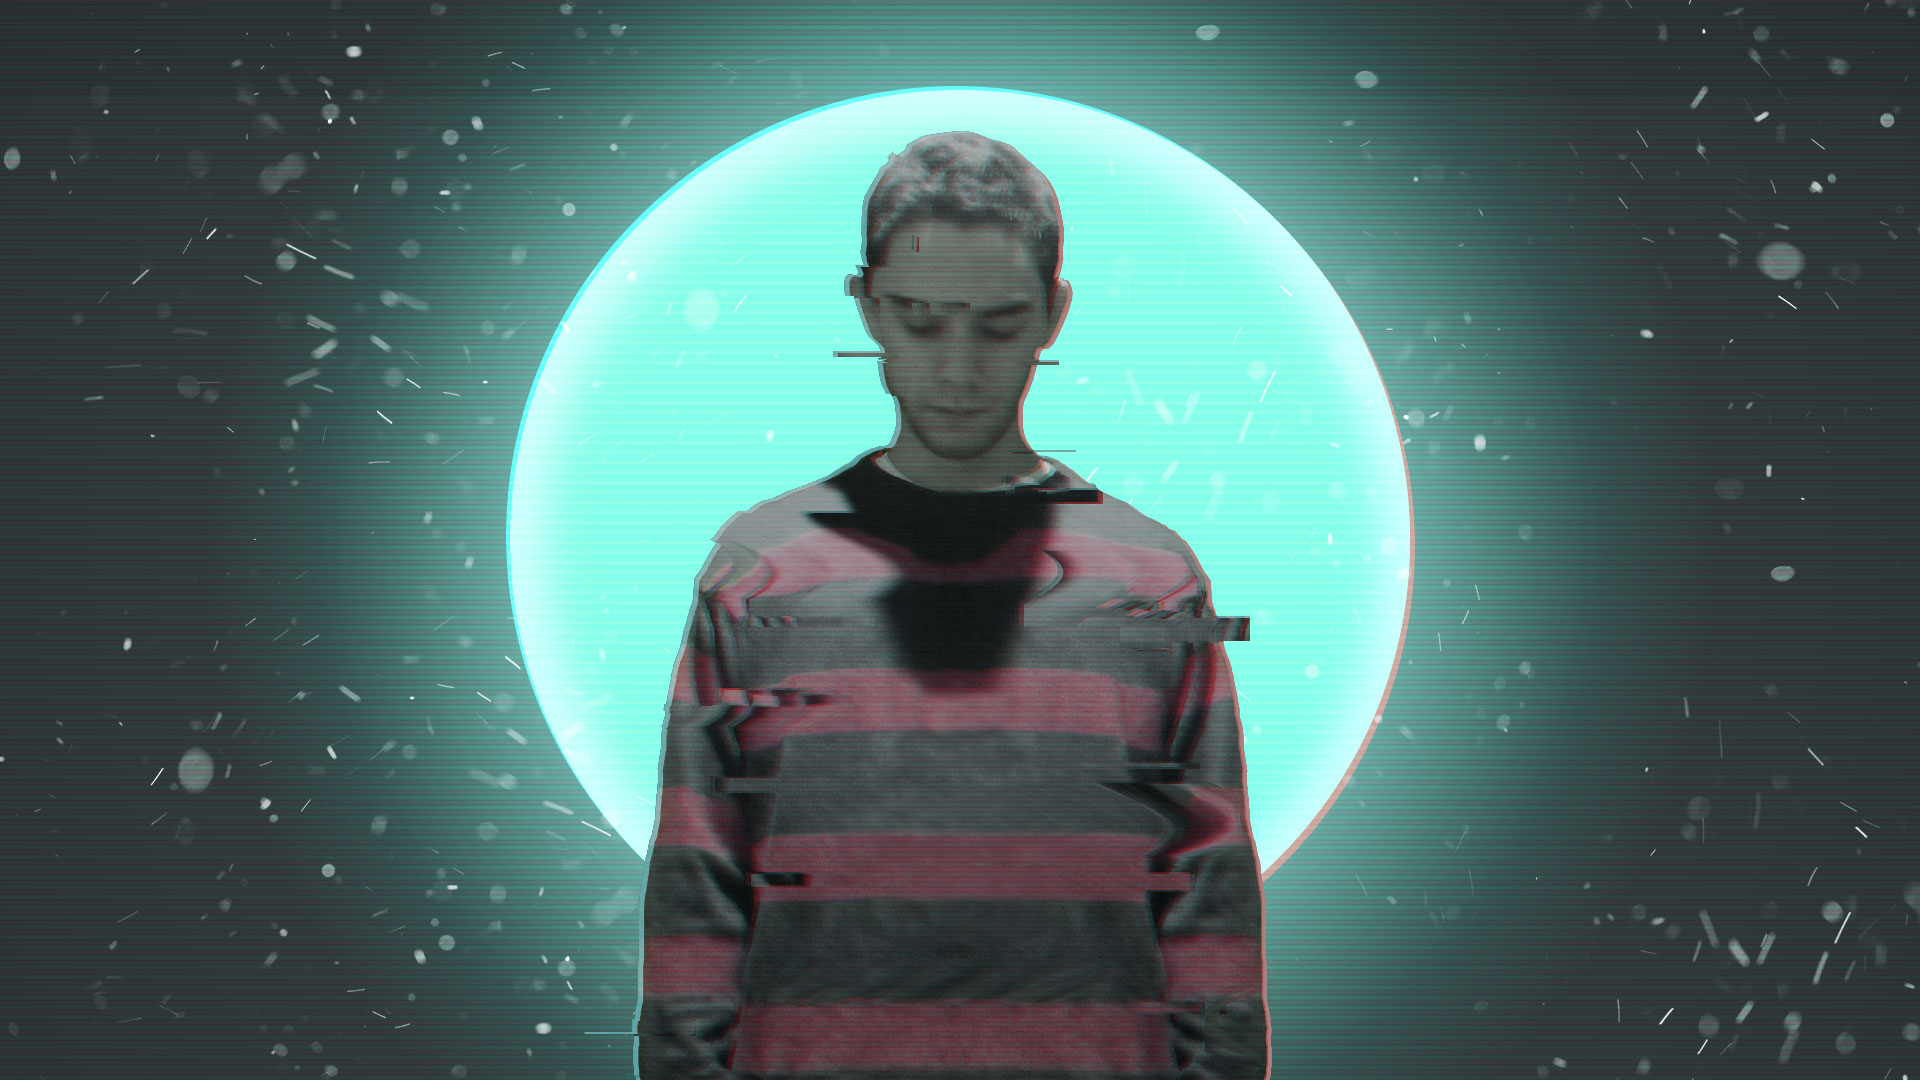
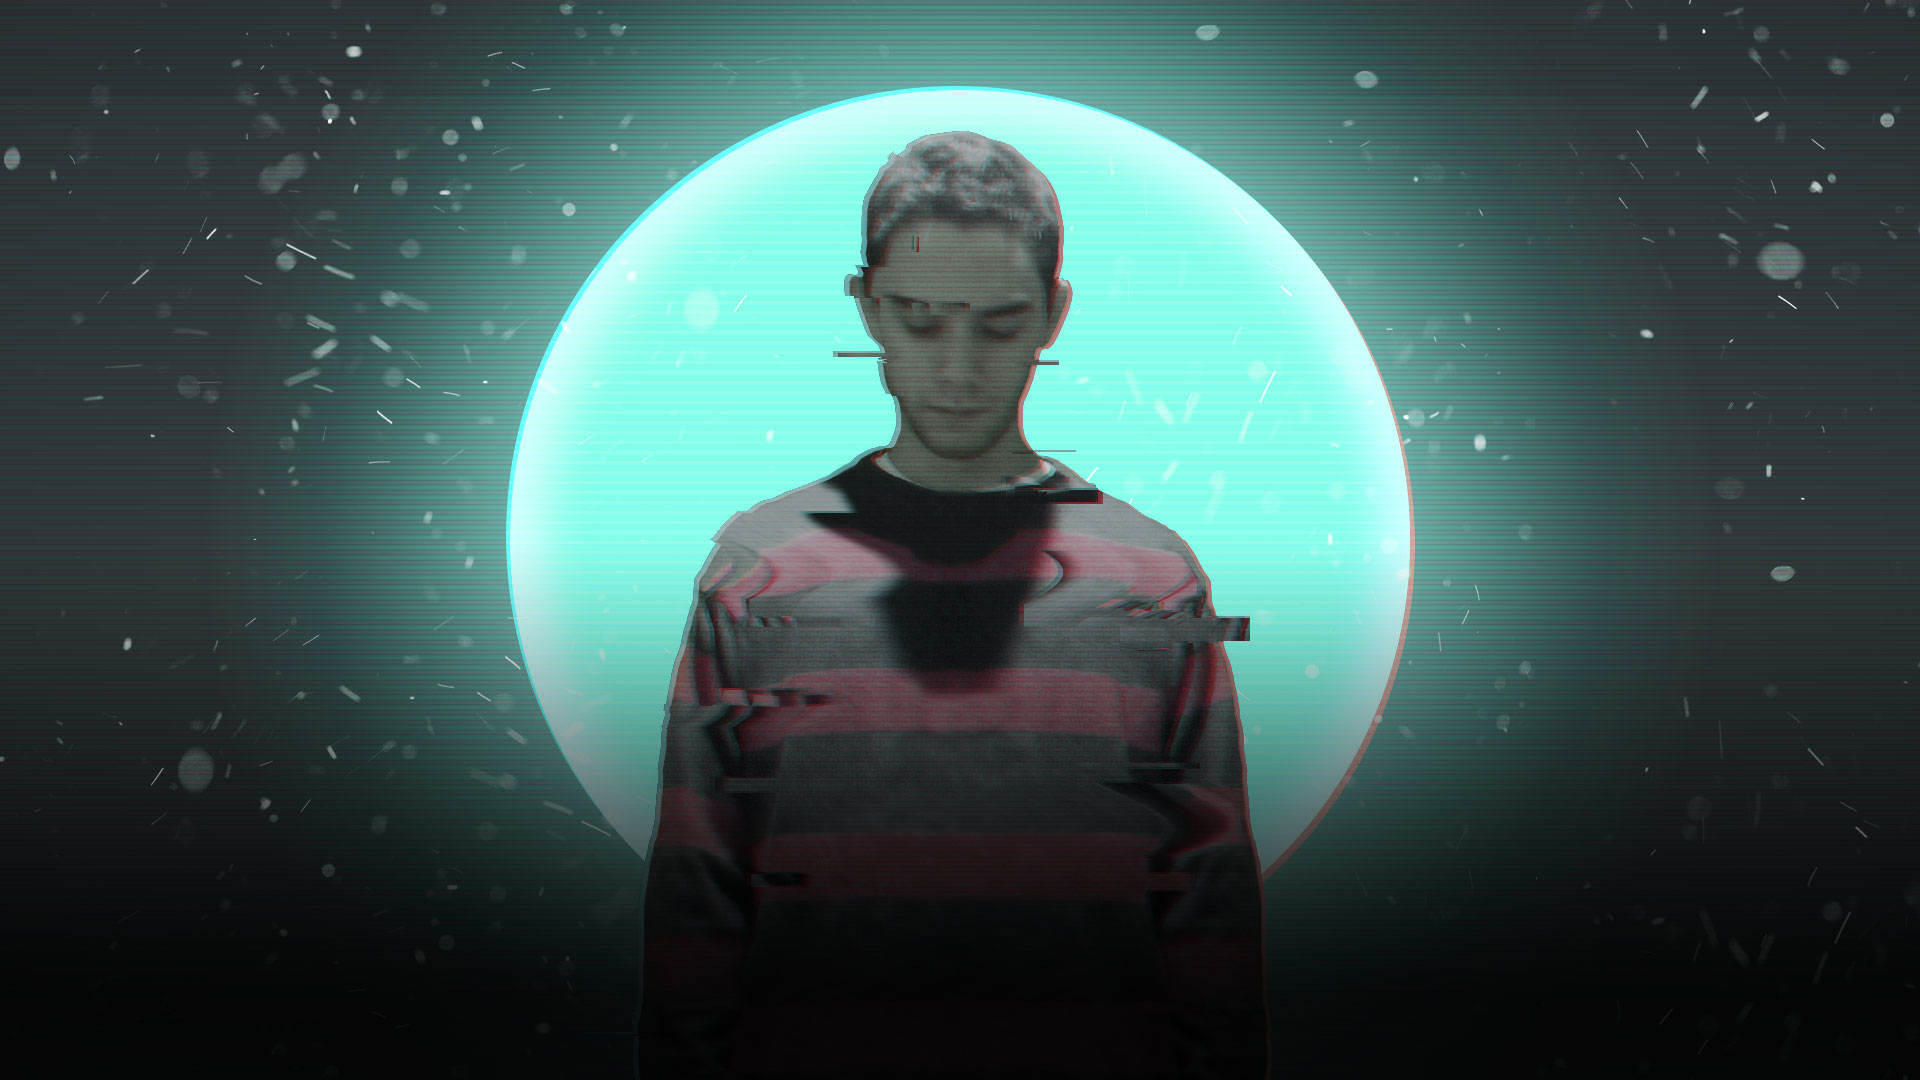
19/11/22 (Nuevo bg)

diff --git a/css/estilos.css b/css/estilos.css
@@ -208,20 +208,16 @@ header:hover > .menu{
 	padding: 4rem 1rem;
 	gap: 5rem;
 	height: 100vh;
-}
-
-.bg{
-	top: 0;
-	left: 0;
-	position: absolute;
-	width: 100%;
-	height: 100%;
 	background-image: url(../imagenes/perfil-2.jpg);
 	background-position: center top;
 	background-size: cover;
+	display: flex;
+	flex-direction: column;
+	align-items: flex-start;
+	justify-content: flex-end;
 }
 
-.mascara{
+.background{
 	background: linear-gradient(to top, rgba(0, 0, 0, 1.0), transparent);
 	position: absolute;
 	top: 0;

diff --git a/index.html b/index.html
@@ -38,9 +38,7 @@
     </header>
     <main>
         <article id="datosAlumno" class="alumno">
-            <div class="bg">
-                <div class="mascara">
-                </div>
+            <div class="background">
             </div>
             <div class="acercademi-container">
                 <h1>Lucas Retamozo</h1>
